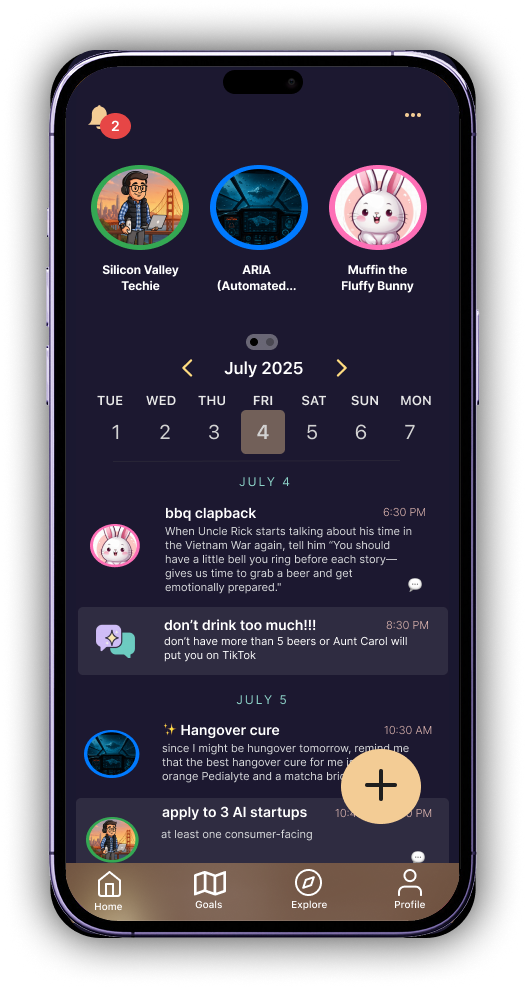
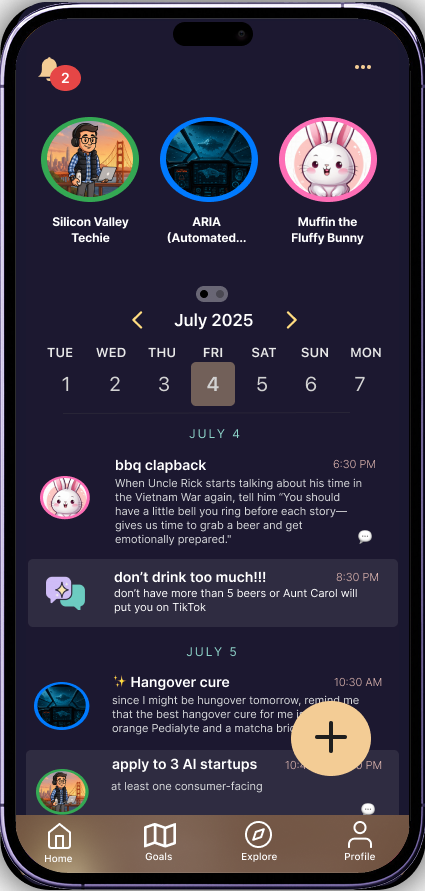
Enlarge phone mockup screens 150%, add character customization image, global body-link styling
- .phone-mockup-uniform images scaled from 160x320 to 240x480 (1.5x)
  for readability, applies to both instances on the page
- character-customization.jpeg added after the "skin and hair color"
  sentence in the diversity/inclusion section
- New global rule: any link inside a <p> tag is now underlined and
  colored with the theme's accent color by default, instead of relying
  on manually-applied link-accent classes

diff --git a/case-studies/spellnotes.html b/case-studies/spellnotes.html
@@ -3,7 +3,7 @@
 <head>
 <meta charset="utf-8">
 <meta name="viewport" content="width=device-width, initial-scale=1">
-<title>Spellnotes — Case Study | Christina</title>
+<title>Spellnotes: Product Design Case Study</title>
 <link rel="stylesheet" href="../css/style.css">
 </head>
 <body>
@@ -32,39 +32,40 @@
 <header class="cs-header">
   <div class="eyebrow">Case study — AI product design</div>
   <h1 class="h1">Spellnotes</h1>
-  <p class="cs-dek">Reimagine task management with fun AI characters. Character.ai meets task management — what if AI characters were the ones reminding you to go to the gym, buy that milk, or call your mom?</p>
+  <p class="cs-dek">Reimagine task management, but with fun fictional characters: what if AI characters were the ones reminding you to go to the gym, buy that milk, or call your mom?</p>
   <div class="cs-meta">
-    <div><div class="cs-meta-label">ROLE</div><div class="cs-meta-value">Solo product designer, researcher, and developer</div></div>
+    <div><div class="cs-meta-label">ROLE</div><div class="cs-meta-value">Solo product designer, UX researcher, and AI developer</div></div>
     <div><div class="cs-meta-label">TIMELINE</div><div class="cs-meta-value">June – July 2025</div></div>
     <div><div class="cs-meta-label">TOOLS</div><div class="cs-meta-value">Figma, Bolt</div></div>
-    <div><div class="cs-meta-label">CONTEXT</div><div class="cs-meta-value">Built for the World's Largest Hackathon</div></div>
+    <div><div class="cs-meta-label">CONTEXT</div><div class="cs-meta-value">Built for a hackathon</div></div>
   </div>
 </header>
 
-<div class="cs-hero-image">
-  <div class="ph ph--shrink"><img src="../assets/images/spellnotes-cover-2.gif" alt="Spellnotes notification preview"></div>
-  <div class="ph ph--shrink"><img src="../assets/images/spellnotes-cover-character.avif" alt="Spellnotes character profile"></div>
-</div>
+  <div class="phone-mockup-group phone-mockup-uniform" style="margin-top:1rem;margin-bottom:1rem">
+    <img src="../assets/images/spellnotes-homescreen-mockup.png" alt="Spellnotes home screen">
+    <img src="../assets/images/spellnotes-muffin-generated-notification-mockup.gif" alt="Muffin-generated notification example">
+    <img src="../assets/images/spellnotes-user-adding-notification-mockup.gif" alt="User adding a new notification">
+  </div>
 
 <div class="cs-lede">
-  <p class="cs-pullquote">What if your task manager actually understood who you are, not just what you do? Spellnotes has your task reminders delivered by an AI character of your choice, making such reminders entertaining instead of tedious.</p>
+  <p class="cs-pullquote">What if your task manager spoke to who you are, not just what you do? Spellnotes has your task reminders delivered by an AI character of your choice, making mundane task reminders entertaining instead of tedious and generic.</p>
   <p class="cs-lede-note">Note: while this is a generative AI app, it is not conversational — users can't respond to notifications with text, and all characters are 100% original.</p>
 </div>
 
 <section class="cs-section">
   <div class="eyebrow">01 — The problem and the pitch</div>
-  <h2 class="h2">Task management felt impersonal</h2>
-  <p>Task management apps are typically designed in a one-size-fits-all manner, promoted in a way that doesn't take into account the bigger picture of a user's life goals. When they do try, the UI is typically cluttered and difficult to navigate. Notifications are simple and mundane, either written in preconfigured text by the app or written by the user, and it takes too much work to jot down reminders on the go and configure delivery times.</p>
+  <h2 class="h2">Current reminder apps are boring and/or hard to use</h2>
+  <p>Task management apps are typically boring and have cluttered UI. Notifications are easy to ignore, leading to missed tasks and procrastination.</p>
   <div class="cs-solution-label">SOLUTION</div>
-  <p>Spellnotes introduces a large library of AI assistants with distinct personalities that adapt to user lifestyles and goals. Instead of generic task notifications, users receive contextually relevant reminders — creating a personalized, entertaining productivity experience with a relatively simple, intuitive layout that makes it easy to jot down reminders on the go.</p>
+  <p>Spellnotes introduces a large library of AI assistants with distinct personalities that adapt to user lifestyles and goals. Instead of generic reminders, users receive contextually relevant reminders — creating a personalized, entertaining productivity experience with a relatively simple, intuitive layout that makes it easy to jot down reminders on the go.</p>
 </section>
 
 <section class="cs-section-band">
   <div class="cs-section">
-    <div class="eyebrow">02 — Researching ethical AI design</div>
+    <div class="eyebrow">02 — Learning ethical consumer AI design</div>
     <h2 class="h2">Proceeding with caution</h2>
-    <p>After learning more about the risks of consumer AI, I researched how to design AI interfaces to account for those risks. I understood that design alone couldn't 100% prevent misuse, but having several avenues for users to submit feedback to app admins — and to the system itself — would help mitigate unwanted output.</p>
-    <p>Beyond the extreme, well-publicized cases, I also realized it was critical to study the everyday risks of LLMs.</p>
+    <p>After becoming aware of the risks of consumer AI such as hallucinations, AI psychosis, and more, I knew it was critical to study how to design AI interfaces to account for those risks. I understood that design alone couldn't 100% prevent misuse, but certain designs would help mitigate unwanted system output and user behavior.</p>
+  
     <div class="ph ph--shrink"><img src="../assets/images/spellnotes-risks-of-llms.png" alt="Everyday risks of LLMs, from Scale AI"></div>
     <p>I worked through a reading list on AI interface design — including <i>UX for AI</i> and an AI Product Design certification — alongside several articles on human-centered, accessible, and transparent AI interfaces.</p>
     <div class="cs-image-row" style="margin-bottom:1rem">
@@ -75,7 +76,7 @@
 </section>
 
 <section class="cs-section">
-  <div class="eyebrow">03 — Studying the competition</div>
+  <div class="eyebrow">03 — Studying the existing examples</div>
   <h2 class="h2">Key lessons in AI interface design</h2>
   <h3 class="h3" style="margin-top:0">What mental models have users already built from task and AI companion apps?</h3>
   <p>Since I couldn't find any task management app with AI companions, I knew Spellnotes was going to introduce an unfamiliar experience — a real usability risk. To design something intuitive despite that, I studied current task management and AI companion apps, taking note of shared patterns in information hierarchy and new-task creation flows, like Todoist's notification structure and how a plain-text app compares to Spellnotes' character-voiced approach.</p>
@@ -83,7 +84,7 @@
     <img src="../assets/images/spellnotes-todoist-notifications-mockup.png" alt="Todoist notifications, for comparison">
     <img src="../assets/images/spellnotes-vs-spellnote.png" alt="Plain text app compared to Spellnotes">
   </div>
-  <p style="margin-top:1rem">Below is how other AI companion apps structure their character profile pages, often including usage frequency and other metrics as social proof.</p>
+  <p style="margin-top:1rem">Below is how other AI companion apps structure their character profile pages, often including usage frequency and other metrics as social proof:</p>
   <div class="repost-grid">
     <div class="repost-tile"><img src="../assets/images/spellnotes-nomi-ai-1.png" alt="Nomi AI character profile"></div>
     <div class="repost-tile"><img src="../assets/images/spellnotes-kindroid-profile.png" alt="Kindroid character profile"></div>
@@ -93,7 +94,7 @@
   </div>
 
   <h3 class="h3">Pain points users already have with AI characters</h3>
-  <p>To learn about everyday problems with AI-generated characters, I dove into the Character.ai subreddit. These were the main pain points I found:</p>
+  <p>To learn about everyday problems with AI-generated characters, I dove into the <a href = "https://www.reddit.com/r/CharacterAI/">Character.ai subreddit</a>. These were the main pain points I found:</p>
   <div class="repost-grid">
     <div class="repost-tile"><img src="../assets/images/spellnotes-characterai-pain-point-1.png" alt="Character.ai pain point 1"></div>
     <div class="repost-tile"><img src="../assets/images/spellnotes-characterai-pain-point-2.png" alt="Character.ai pain point 2"></div>
@@ -104,21 +105,22 @@
     <div class="repost-tile"><img src="../assets/images/spellnotes-characterai-pain-point-7.png" alt="Character.ai pain point 7"></div>
   </div>
 
-  <p>To figure out how to write the backend system prompts behind each character, I took courses on prompt engineering, then tested whether current LLMs could deliver entertaining notifications in-character. Throughout testing on Character.ai, it was clear current LLMs are well-suited to mimicking a variety of character voices — but were they suited to delivering everyday task reminders in character? I tested a handful of reminders on Claude, providing a detailed description of the app and each character. The character concepts themselves are my own, not AI-generated — I started with archetypes I assumed might be locally popular in Silicon Valley.</p>
+  <p>To figure out how to write the system prompts behind each character, I took courses on prompt engineering, then tested whether current LLMs could deliver entertaining notifications in-character.  I started with archetypes I assumed might be popular by local techie users.</p>
   <div class="repost-grid">
     <div class="repost-tile"><img src="../assets/images/spellnotes-silicon-valley-techie-notifications.png" alt="Silicon Valley Techie notification example"></div>
     <div class="repost-tile"><img src="../assets/images/spellnotes-spaceship-ai-notifications.png" alt="Spaceship AI notification example"></div>
     <div class="repost-tile"><img src="../assets/images/spellnotes-board-game-cafe-notifications.png" alt="Board Game Cafe Regular notification example"></div>
   </div>
-  <p style="margin-top:24px">I only tested model responses with mundane, simple, common reminders — I assumed many users would enter more complex or possibly inappropriate reminders in an attempt to troll or evoke an emotionally intimate (or worse) response, and I didn't feel equipped to handle that kind of undesirable behavior on my own.</p>
+  <p style="margin-top:24px">Note: I only tested model responses with mundane, simple, common reminders — I assumed many users would enter more complex or possibly inappropriate reminders in an attempt to troll or evoke an emotionally intimate (or worse) response, and I didn't feel equipped to handle that kind of undesirable behavior on my own.</p>
   <p>That's why, if I could hire a team to fully develop this product, I'd choose AI-savvy engineers committed to programming strong guardrails into each character to handle inappropriate requests and detect emotionally risky behavior, such as suicidal ideation. The team and I would test each character against a wide range of potential input, informed by more in-depth primary user research.</p>
 </section>
 
 <section class="cs-section-band">
   <div class="cs-section">
-    <div class="eyebrow">04 — Diversity and inclusion</div>
-    <h2 class="h2">What will these characters look like?</h2>
+    <div class="eyebrow">04 — Designing for inclusivity </div>
+    <h2 class="h2">Who would these characters be? How would they look?</h2>
     <p>I was committed to making the characters diverse in every way, without reflecting societal stereotypes. For the sake of the hackathon's time limit, I used OpenAI's Sora to generate placeholder images and used non-human characters for demo purposes. With unlimited time and budget, I'd instead design and develop a character customizer like the ones used in video games for human or humanoid characters — letting each user customize features like skin and hair color to reflect their own identity.</p>
+    <img src="../assets/images/spellnotes-character-customization.jpeg" alt="Character customization concept" style="display:block;width:100%;height:auto;border-radius:10px;margin-bottom:1rem">
 
     <h3 class="h3">Six pain points, and how I addressed each</h3>
     <p><b>1. Age restriction.</b> Users were concerned with minors accessing chats with mature themes, like characters with emotionally traumatizing backstories, and with models being trained on inappropriate input from minors.</p>

diff --git a/css/style.css b/css/style.css
@@ -78,6 +78,9 @@
 body { margin: 0; }
 a { color: inherit; text-decoration: none; }
 a:hover, a:active { text-decoration: underline; }
+
+/* Body text links: always underlined and in the theme's accent color */
+p a { color: var(--accent-text); text-decoration: underline; }
 ul { margin: 0; }
 ::selection { background: #2F8693; color: #fff; }
 
@@ -538,8 +541,8 @@ body {
 }
 .phone-mockup-uniform img {
   max-width: none;
-  width: 160px;
-  height: 320px;
+  width: 240px;
+  height: 480px;
   object-fit: contain;
 }
 
